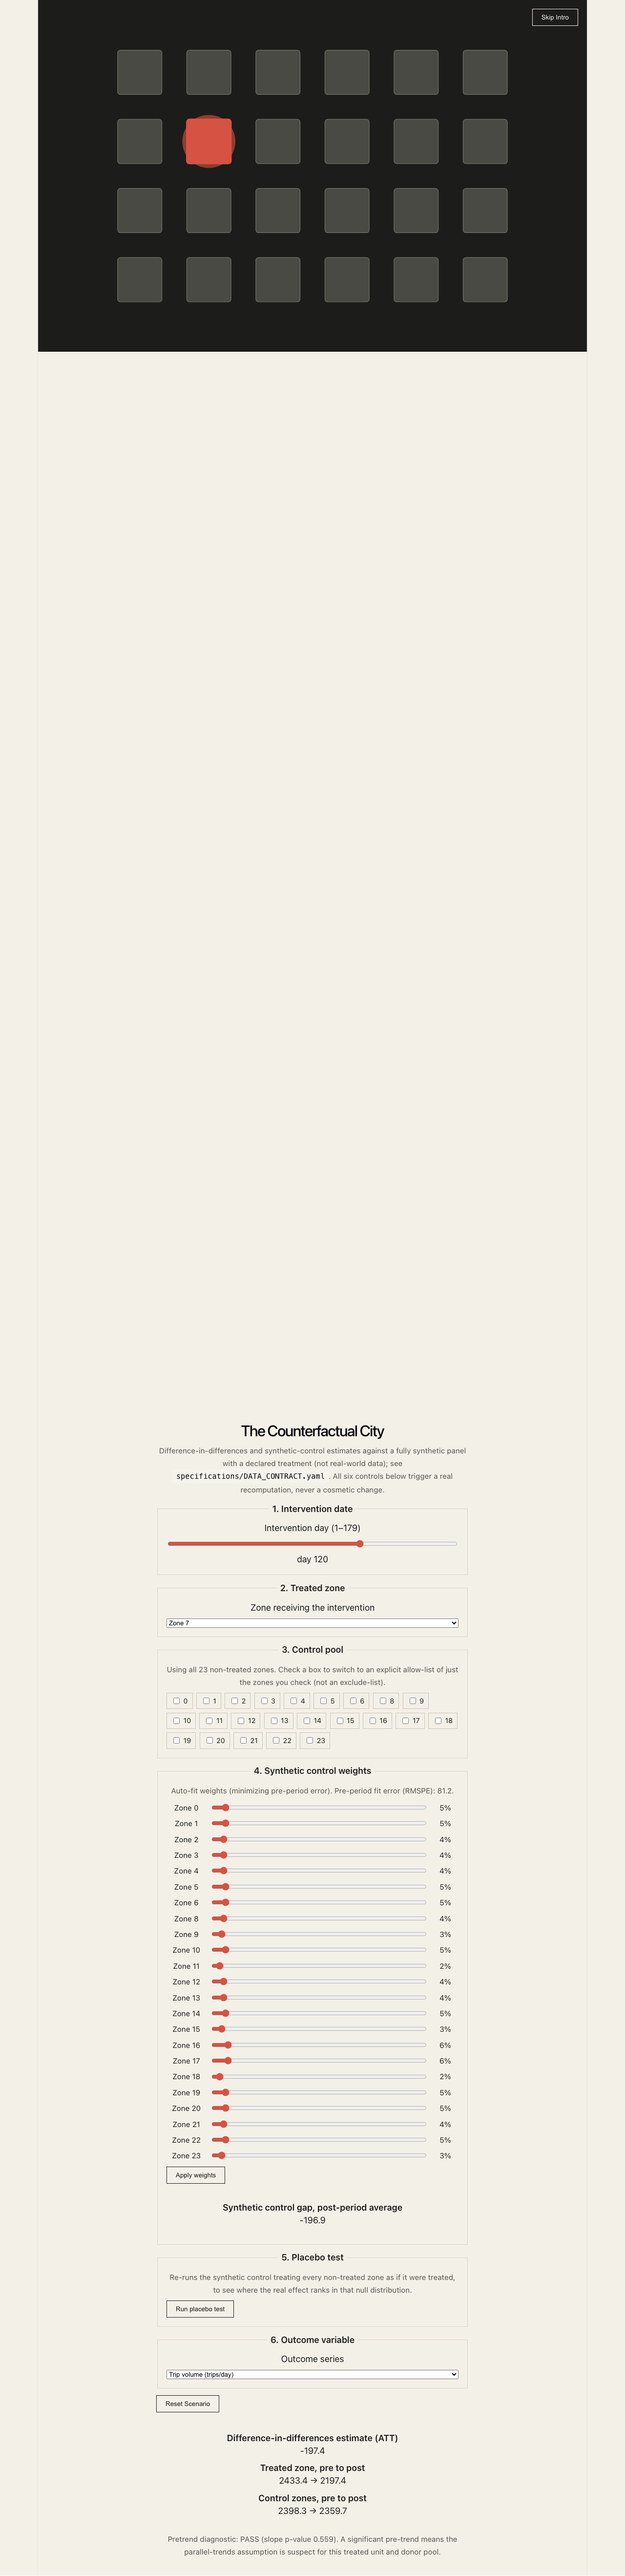
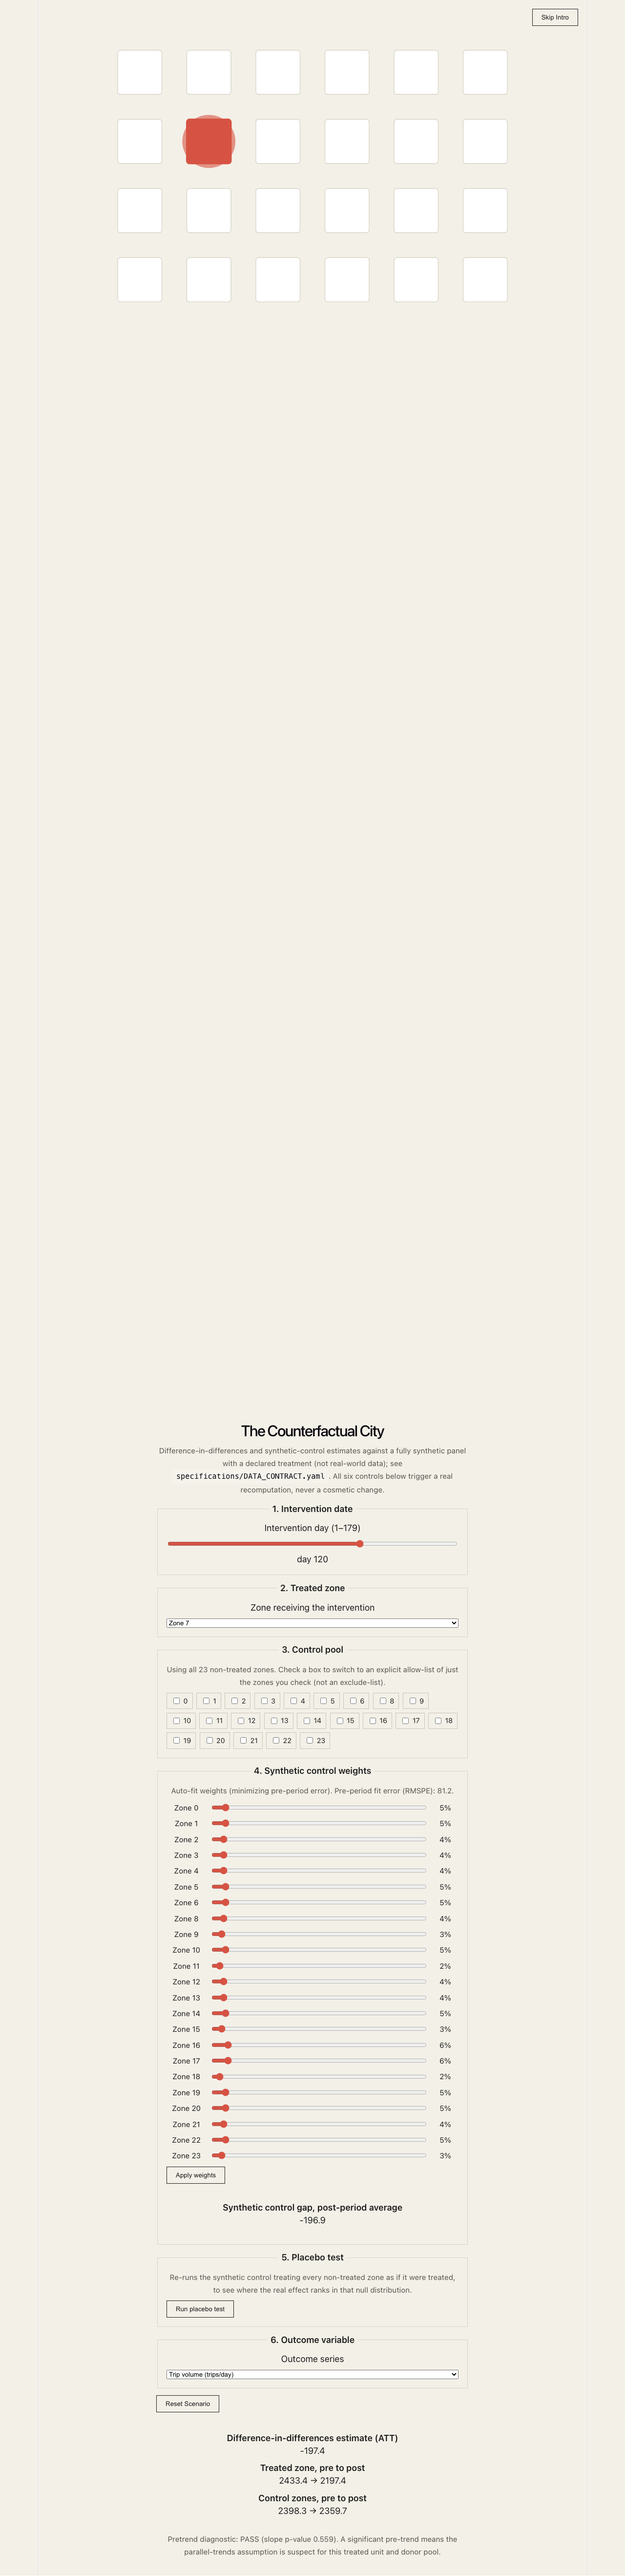
Stage 3 step 1: re-skin the city stage to the dossier's real palette
Replaces the dark (#1c1c1a) placeholder background and gray blocks from
Stage 2 with the dossier's own palette (src/scenes/scenes.css): --paper
background, white zone blocks with hairline borders, ink text/labels,
--accent-red/--accent-blue reserved for the real-result encoding. This
addresses the palette half of the Stage 2 independent review's
visual-quality finding (docs/ART_DIRECTION.md section 1 already flagged
this as Stage 3's first required task, before any chapter work builds on
the wrong background).

Added --hint and --hairline as proper :root tokens in src/App.css
(consolidating 3 hardcoded hex literals that were already using those exact
values), since src/scenes/scenes.css needed them and duplicating the hex
values across files would have been the wrong call.

The other half of the visual-quality finding (varied block treatment,
asymmetric composition, texture/depth beyond a uniform grid) is not
addressed by this commit and remains explicit, tracked Stage 3 work per
LIMITATIONS.md and execution/PROGRESS.md.

35/35 Playwright, 35/35 Vitest, tsc clean, oxlint clean after the change.
Confirmed live and in verification/SCREENSHOTS/intro-*.png.
Claude-Session: https://claude.ai/code/session_013LXAeCP2f7TfBWjXG9626r

Changed region(s): [[0.0625, 0.0, 0.9375, 0.1555]]

diff --git a/src/scenes/scenes.css b/src/scenes/scenes.css
@@ -12,7 +12,13 @@
   top: 0;
   height: 100vh;
   overflow: hidden;
-  background: #1c1c1a;
+  /* Re-skinned from Stage 2's dark placeholder to the dossier's own palette (docs/PROJECT_SPEC.md,
+     "Visual identity: #F3F0E8 / #D65343 / #4B84C5 ... architectural editorial; map grids"), per
+     docs/ART_DIRECTION.md section 1: a dark background was a reasonable placeholder to prove the
+     scroll/camera/real-result architecture, but it's the wrong mood for this project (that's
+     CASCADIA's territory), and an independent review's own visual-quality finding flagged exactly
+     this before any chapter work builds on top of it. */
+  background: var(--paper);
   display: flex;
   align-items: center;
   justify-content: center;
@@ -25,7 +31,7 @@
   transform: translateX(-50%);
   z-index: 3;
   text-align: center;
-  color: var(--paper);
+  color: var(--ink);
 }
 
 .intro-title h1 {
@@ -35,7 +41,7 @@
 
 .intro-title p {
   margin: 0.25rem 0 0;
-  color: #cfcabb;
+  color: var(--hint);
 }
 
 .skip-intro {
@@ -43,9 +49,9 @@
   top: 1rem;
   right: 1rem;
   z-index: 4;
-  background: transparent;
-  color: var(--paper);
-  border-color: var(--paper);
+  background: var(--paper);
+  color: var(--ink);
+  border-color: var(--ink);
 }
 
 .city-stage-wrap {
@@ -60,13 +66,13 @@
 }
 
 .road {
-  stroke: #3a3a35;
+  stroke: var(--hairline);
   stroke-width: 6;
 }
 
 .zone-block {
-  fill: #4a4a44;
-  stroke: #6b6b62;
+  fill: #ffffff;
+  stroke: var(--hairline);
   stroke-width: 1;
 }
 
@@ -76,7 +82,7 @@
 }
 
 .zone-label {
-  fill: #e8e5db;
+  fill: var(--ink);
   font-size: 18px;
   font-family: ui-sans-serif, system-ui, sans-serif;
   pointer-events: none;

diff --git a/src/App.css b/src/App.css
@@ -8,6 +8,8 @@
      axe-core finding from e2e/a11y.spec.ts). Decorative, non-text uses (slider accent-color) keep
      --accent-red; any error/alert TEXT uses this. */
   --accent-red-text: #9c2f20;
+  --hint: #55534c;
+  --hairline: #d8d4c8;
 }
 
 body {
@@ -33,7 +35,7 @@ body {
 
 .disclaimer {
   font-size: 0.85rem;
-  color: #55534c;
+  color: var(--hint);
 }
 
 input[type="range"] {
@@ -68,7 +70,7 @@ button:hover {
 }
 
 fieldset {
-  border: 1px solid #d8d4c8;
+  border: 1px solid var(--hairline);
   padding: 0.75rem 1rem 1rem;
   display: flex;
   flex-direction: column;
@@ -82,7 +84,7 @@ legend {
 
 .hint {
   font-size: 0.85rem;
-  color: #55534c;
+  color: var(--hint);
   margin: 0;
 }
 

diff --git a/LIMITATIONS.md b/LIMITATIONS.md
@@ -55,14 +55,16 @@ REQUIREMENTS.yaml` for per-requirement status.
 
 ## Cinematic intro (Stage 2)
 
-- **Visual quality does not yet meet the "distinctive, polished, art-directed" bar.** An
-  independent review's own words: the current intro "reads as a wireframe, not a finished
-  cinematic city... a uniform grid of identical flat gray rounded rectangles... no skyline, no
-  depth, no texture." This is accurate. Three real functional defects found by the same review
-  (an error-state dead end, a reduced-motion Skip Intro no-op, and a camera-targeting bug) were
-  fixed and verified (`verification/STAGE2_INDEPENDENT_REVIEW.md`); the visual-design gap was not
-  fixed in that pass, it is carried forward as explicit Stage 3 work (`docs/ART_DIRECTION.md`
-  section 1), not silently dropped.
+- **Visual quality does not yet fully meet the "distinctive, polished, art-directed" bar.** An
+  independent review's own words: the (then dark-palette) intro "reads as a wireframe, not a
+  finished cinematic city... a uniform grid of identical flat gray rounded rectangles... no
+  skyline, no depth, no texture." Three real functional defects found by the same review (an
+  error-state dead end, a reduced-motion Skip Intro no-op, and a camera-targeting bug) were fixed
+  and verified (`verification/STAGE2_INDEPENDENT_REVIEW.md`). The palette half of the visual
+  finding is now fixed (re-skinned to the dossier's real `#F3F0E8`/`#D65343`/`#4B84C5` palette,
+  `src/scenes/scenes.css`, confirmed live and in screenshots). The other half, varied block
+  treatment, asymmetric composition, texture/depth beyond a uniform grid, is still owed and
+  remains explicit Stage 3 work, not silently dropped.
 - **This fix pass has not itself been re-reviewed by a fresh, separate reviewer.** Self-verified
   thoroughly (reproduce-before-fix evidence for all 3 blocking defects, full suite green,
   live-screenshot confirmation), but `CTY-MOTION-001` stays at `implemented`, not

diff --git a/execution/PROGRESS.md b/execution/PROGRESS.md
@@ -108,13 +108,15 @@ tracked work, not silently dropped. Design-system docs written ahead of Stage 3
 `RESPONSIVE_COMPOSITIONS.md`), including the 6-chapter-to-control mapping and the flagged palette
 re-skin.
 
-**Stage 3-5: full 6-chapter build.** In order:
-1. Re-skin the persistent city stage from Stage 2's dark placeholder palette to the dossier's real
-   light palette (`#F3F0E8`/`#D65343`/`#4B84C5`, already used elsewhere in `src/App.css`), per
-   `docs/ART_DIRECTION.md` section 1, FIRST, not after chapters are built on the wrong palette.
-2. Do a real visual-design pass on the city grid itself (varied block treatment, asymmetric
-   composition, texture/depth cues), not just a color swap, per the Stage 2 review's own honest
-   assessment that the current grid is too uniform/generic to clear the portfolio-wide release gate.
+**Stage 3-5: full 6-chapter build.**
+1. **DONE**: re-skinned the persistent city stage from Stage 2's dark placeholder palette to the
+   dossier's real light palette (`src/scenes/scenes.css`: `--paper` background, white zone blocks,
+   `--hairline` roads, `--ink` labels), per `docs/ART_DIRECTION.md` section 1. Confirmed live and
+   in `verification/SCREENSHOTS/intro-*.png`; 35/35 tests still green after the change.
+2. Still owed: a real visual-design pass on the city grid itself (varied block treatment,
+   asymmetric composition, texture/depth cues), not just the color swap in step 1, per the Stage 2
+   review's own honest assessment that the current grid is too uniform/generic to clear the
+   portfolio-wide release gate.
 3. Build chapters 2-6 per `docs/ART_DIRECTION.md` section 5's mapping (treatment, matched controls,
    counterfactual [flagship], diagnostics, limitations), wiring in the remaining 5 controls
    (currently only CTY-INT-001 is integrated into the cinematic layer; the other 5 live in the

diff --git a/docs/ART_DIRECTION.md b/docs/ART_DIRECTION.md
@@ -24,14 +24,17 @@ already occupies the "engraved dark plate" territory this project deliberately d
 
 ## 1. What's already built (Stage 2) and what this board governs going forward
 
-Stage 2 shipped a first-pass intro (`src/scenes/IntroSequence.tsx`, `CityStage.tsx`): a dark
-(`#1c1c1a`) scene with a 24-block grid city. That dark background was a reasonable placeholder to
-prove the scroll/camera/real-result architecture (and it did: Stage 1 and Stage 2 both passed
-independent review), but it does NOT yet reflect this board's governing idea above, which calls for
-the dossier's own light paper palette, not a dark DeFi-adjacent one. **This board's first load-bearing
-instruction for Stage 3: re-skin the persistent city stage to the light palette below before or
-while building chapter content**, not after six chapters have already been built on the wrong
-palette.
+Stage 2 shipped a first-pass intro (`src/scenes/IntroSequence.tsx`, `CityStage.tsx`). It originally
+used a dark (`#1c1c1a`) scene as a placeholder to prove the scroll/camera/real-result architecture;
+that was flagged here and in the Stage 2 independent review as not reflecting this board's governing
+idea (the dossier's own light paper palette, not a dark DeFi-adjacent one), and has since been
+**re-skinned to the real palette** (`src/scenes/scenes.css`: `--paper` background, white zone blocks,
+`--hairline` roads, `--ink` text, `--accent-red`/`--accent-blue` reserved for the real-result
+encoding). Confirmed live and in `verification/SCREENSHOTS/intro-*.png`.
+
+This re-skin addresses the PALETTE half of the Stage 2 review's visual-quality finding. The other
+half (a real design pass: varied block treatment, asymmetric composition, texture/depth, not just
+correct colors) is still owed and remains explicit Stage 3 work, see `LIMITATIONS.md`.
 
 ---
 
